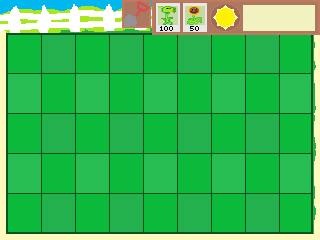
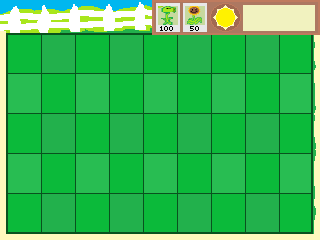
Plant cell occupied state and buttons sorta workign

Changed region(s): [[0.375, 0.0, 0.4688, 0.1167]]

diff --git a/src/main.cpp b/src/main.cpp
@@ -53,16 +53,14 @@ int main() {
     // Instantiate the game canvas
     std::vector<std::shared_ptr<CanvasItem>> gameCanvas = {
         std::shared_ptr<CanvasItem>(new Sprite(0,0,320,240,"res/backdrop/gamedrop.png")),
-        std::shared_ptr<CanvasItem>(new TextureButton(151,28,123,0, "res/ui/shovelbutton_def.png", "res/ui/shovelbutton_prs.png")),
-        std::shared_ptr<CanvasItem>(new TextureButton(180,32,157,4, "res/ui/peashooterbutton_def.png", "res/ui/peashooterbutton_prs.png")),
-        std::shared_ptr<CanvasItem>(new TextureButton(207,32,184,4, "res/ui/sunflowerbutton_def.png", "res/ui/sunflowerbutton_prs.png"))
+        std::shared_ptr<CanvasItem>(new TextureButton(156,3,24,29, "res/ui/peashooterbutton_def.png", "res/ui/peashooterbutton_prs.png")),
+        std::shared_ptr<CanvasItem>(new TextureButton(183,3,24,29, "res/ui/sunflowerbutton_def.png", "res/ui/sunflowerbutton_prs.png"))
     };
 
     // Register buttons
     std::vector<std::shared_ptr<Button>> gameClickables = {
         std::shared_ptr<Button>(static_cast<Button*>(gameCanvas.at(1).get())),
         std::shared_ptr<Button>(static_cast<Button*>(gameCanvas.at(2).get())),
-        std::shared_ptr<Button>(static_cast<Button*>(gameCanvas.at(3).get()))
     };
 
     // MAIN LOOP
@@ -109,6 +107,23 @@ int main() {
                 }
             } else {
                 // Poll buttons and clickables
+                int idx = 0;
+                for (auto&& button : gameClickables) {
+                    bool release = button->poll(std::shared_ptr<ClickEvent>(&event));
+                    if (release) {
+                        switch (idx) {
+                            case 0: // Peashooter
+                                Game::instance().selectPlant(0);
+                                break;
+                            case 1: // Sunflower
+                                Game::instance().selectPlant(1);
+                                break;
+                            default:
+                                std::cout << "Button registry error!";
+                        }
+                    }
+                    idx++;
+                }
             }
         }
 

diff --git a/src/game/game.h b/src/game/game.h
@@ -15,6 +15,14 @@ class Game {
         int sunAmount {0};
         std::vector<std::shared_ptr<Entity>> entities;
 
+        /// @brief -1 = none, 0 = peashooter, 1 = sunflower
+        int selectedPlant = -1;
+
+        Game();
+        int randiRange(int,int);
+        float randfRange(float,float);
+
+    public:
         /// @brief The top left corner of the grid.
         const Vector2 topLeft {9,36};
         /// @brief The bottom right corner of the grid.
@@ -31,12 +39,6 @@ class Game {
             {false, false, false, false, false, false, false, false, false}
         };
 
-        Game();
-        int randiRange(int,int);
-        float randfRange(float,float);
-        void spawnSunParticle();
-
-    public:
         // Tracked stats
         int timeSurvived {0};
         int totalSun {0};
@@ -54,6 +56,15 @@ class Game {
         // Clean up so the game is in a pre-init state.
         void cleanUp();
 
+        void spawnSunParticle();
+
+        /**
+         * Sets the value of selectedPlant to the value of which.
+         *      @param which The value to set it to.
+         * @author Ryan
+         */
+        void selectPlant(int which);
+
         /**
          * Converts a screen position Vector2 to a grid position.
          *      @param pos The screen position.
@@ -69,6 +80,13 @@ class Game {
          * @author Daniel and Ryan
          */
         void setCellState(Vector2 gridpos, bool state);
+
+        /**
+         * Check if the cell at gridpos is occupied.
+         *      @param gridpos The grid cell to check.
+         * @author Ryan
+         */
+        bool isCellOccupied(Vector2 gridpos);
 };
 
 #endif

diff --git a/src/game/game.cpp b/src/game/game.cpp
@@ -35,6 +35,21 @@ bool Game::updateGame(std::shared_ptr<ClickEvent> event) {
     // List of indicies of entities that are being removed this tick.
     std::vector<int> removing;
 
+    if (!event->empty && !event->mouse_down && selectedPlant != -1) {
+        Vector2 gridPos = screenToGrid(event->start);
+        if ((int)gridPos.x >= 0 && (int)gridPos.y >= 0 && (int)gridPos.x < 9 && (int)gridPos.y < 5 && !isCellOccupied(gridPos)) {
+            if (selectedPlant == 0) { // Peashooter
+                setCellState(gridPos,true);
+                std::cout << "Peashooter placed";
+            } else if (selectedPlant == 1) { // Sunflower
+                setCellState(gridPos,true);
+                std::shared_ptr<Entity> newSunflower (new Sunflower(gridPos.x,gridPos.y));
+                entities.push_back(newSunflower);
+                std::cout << "Sunflower placed";
+            }
+        }
+    }
+
     int idx = 0;
     for (auto&& entity : entities) {
         entity->update();
@@ -98,11 +113,18 @@ void Game::cleanUp() {
     plantsPlaced = 0;
 }
 
+void Game::selectPlant(int which) {
+    selectedPlant = which;
+}
+
 Vector2 Game::screenToGrid(Vector2 pos) {
-    // Use integer division
-    return Vector2{pos.x/cellDim.x, pos.y/cellDim.y};
+    return Vector2{(pos.x+topLeft.x)/cellDim.x, (pos.y+topLeft.y)/cellDim.y};
 }
 
 void Game::setCellState(Vector2 gridpos, bool state) {
-    grid[(int)gridpos.x][(int)gridpos.y] = state;
+    grid.at((int)gridpos.y).at((int)gridpos.x) = state;
+}
+
+bool Game::isCellOccupied(Vector2 gridpos) {
+    return grid.at((int)gridpos.y).at((int)gridpos.x);
 }

diff --git a/src/game/entity.cpp b/src/game/entity.cpp
@@ -3,6 +3,7 @@
 #include "../engine/interface.h"
 #include "entity.h"
 #include "../global.h"
+#include "game.h"
 
 
 Entity::Entity(Vector2 pos, Vector2 siz, char spr[]) {
@@ -80,4 +81,21 @@ void SunParticle::update() {
     else velocity.y = 0;
 
     sprite.draw();
+}
+
+Plant::Plant(int grid_x, int grid_y, char tex[]) : Entity((grid_x*Game::instance().cellDim.x)+Game::instance().topLeft.x,(grid_y*Game::instance().cellDim.y)+Game::instance().topLeft.y,31,41,tex) {
+    
+}
+
+Sunflower::Sunflower(int grid_x, int grid_y) : Plant(grid_x,grid_y,"res/entity/sunflower.png") {
+
+}
+
+void Sunflower::update() {
+    cooldown++;
+    if (cooldown > cooldownMax) {
+        cooldown = 0;
+        // silly, but we drop a new one from the sky.
+        Game::instance().spawnSunParticle();
+    }
 }

diff --git a/src/game/entity.h b/src/game/entity.h
@@ -47,12 +47,24 @@ class PeaProjectile : public Entity {
 
 class Plant : public Entity {
     protected:
-        int cooldown;
-        int health=4;
+        int cooldown {0};
     public:
-        Plant(Vector2);
-        Plant(float, float);
-        const char *type;
+        Plant(int grid_x, int grid_y, char tex[]);
+};
+
+class Sunflower : public Plant {
+    private:
+        const int cooldownMax = 100;
+    public:
+        Sunflower(int grid_x, int grid_y);
+        void update();
+};
+
+class Peashooter : public Plant {
+    private:
+        const int cooldownMax = 50;
+    public:
+        Peashooter(int grid_x, int grid_y);
         void update();
 };
 
